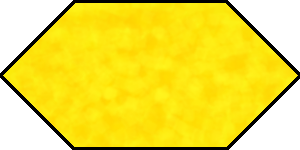
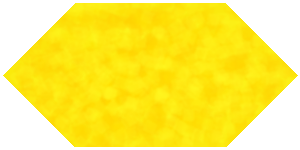
Colored borders for player controlled hexes

diff --git a/app/static/js/main.js b/app/static/js/main.js
@@ -345,8 +345,13 @@ var Tile = (function (_super) {
     Tile.prototype.reDrawTile = function () {
         var arraySpot = currLand.getID([this.axialRow, this.axialCol]);
         var tSprite = currLand.spriteArray[arraySpot];
+        var tBSprite = currLand.sprBorderArray[arraySpot];
         var tDevSpr = currLand.sprDevArray[arraySpot];
         tSprite.texture = sprMed[lscpArray[this.landscape].sprID];
+        if (this.ownedBy != null) {
+            tBSprite.alpha = 1;
+            tBSprite.tint = rgbToHclr(cPlayerArray[this.ownedBy].color);
+        }
         if (this.development != null) {
             tDevSpr.texture = sprMed[develArray[this.development].sprID[0]];
         }
@@ -361,6 +366,7 @@ var playerIncrement = 0; // Global incrementing variable used to set playerID
 var Player = (function () {
     function Player() {
         this.playerOrder = 0;
+        this.color = [255, 255, 255];
         this.food = 2;
         this.material = 2;
         this.treasure = 0;
@@ -377,6 +383,12 @@ var Player = (function () {
         this.actionHistory = [];
         this.playerID = playerIncrement;
         playerIncrement++;
+        if (this.playerID === 0) {
+            this.color = [255, 0, 0];
+        }
+        else if (this.playerID === 1) {
+            this.color = [0, 0, 255];
+        }
     }
     Player.prototype.getResource = function (resource) {
         if (resource === eCOST.Food) {
@@ -770,11 +782,13 @@ var Land = (function () {
     Land.prototype.displayLand = function () {
         var lTiles = this.tileArray;
         var landSprites = [];
+        var landBSprites = [];
         var landDevSprs = [];
         for (var currX = (-1 * glbBoundary); currX < glbBoundary; currX++) {
             for (var currY = (-1 * glbBoundary); currY < glbBoundary; currY++) {
                 var arraySpot = this.getID([currX, currY]);
                 if (arraySpot != null) {
+                    // Add landscape sprite
                     var tTile = lTiles[arraySpot];
                     var tSprite = new Sprite(sprMed[lscpArray[tTile.landscape].sprID]);
                     tSprite.scale.set(tTile.scale, tTile.scale);
@@ -782,6 +796,13 @@ var Land = (function () {
                     tSprite.position.set(sPos[0], sPos[1]);
                     stage.addChild(tSprite);
                     landSprites[arraySpot] = tSprite;
+                    // Add border sprite
+                    var tBSprite = new Sprite(sprMed["whiteborder.png"]);
+                    tBSprite.scale.set(tTile.scale, tTile.scale);
+                    tBSprite.position.set(sPos[0], sPos[1]);
+                    stage.addChild(tBSprite);
+                    landBSprites[arraySpot] = tBSprite;
+                    landBSprites[arraySpot].alpha = 0;
                 }
             }
         }
@@ -810,6 +831,7 @@ var Land = (function () {
             }
         }
         this.spriteArray = landSprites;
+        this.sprBorderArray = landBSprites;
         this.sprDevArray = landDevSprs;
         renderer.render(stage);
     };
@@ -1148,7 +1170,7 @@ develArray[eDEVEL.Demolition].requirement = [];
 develArray[eDEVEL.Demolition].requirement[eREQ.Destroy] = 1;
 develArray[eDEVEL.Demolition].result = [];
 develArray[eDEVEL.Demolition].result[eRES.Material] = 1;
-develArray[eDEVEL.ShepherdVillage] = new Development(eDEVEL.ShepherdVillage, ["shepherdvillage.png"], "Shepherd Village", eDCLR.Red, [eLSCP.Grassy], ("Requires: 1 Food,; Result: +2 Active,  +1 Material"));
+develArray[eDEVEL.ShepherdVillage] = new Development(eDEVEL.ShepherdVillage, ["shepherdvillage.png"], "Shepherd Village", eDCLR.Red, [eLSCP.Grassy], ("Requires: 1 Food,; Result: +2 Active, +1 Material"));
 develArray[eDEVEL.ShepherdVillage].cost = [];
 develArray[eDEVEL.ShepherdVillage].cost[eCOST.Food] = 1;
 develArray[eDEVEL.ShepherdVillage].cost[eCOST.Material] = 2;

diff --git a/app/static/js/land.ts b/app/static/js/land.ts
@@ -8,6 +8,7 @@ class Land {
 	lClimate: number;
 	tileArray: Tile[];
 	spriteArray: Sprite[];
+	sprBorderArray: Sprite[];
 	sprDevArray: Sprite[];
 	devSelection: DevSet;
 
@@ -298,11 +299,13 @@ class Land {
 	displayLand() {
 		let lTiles = this.tileArray;
 		let landSprites = [];
+		let landBSprites = [];
 		let landDevSprs = [];
 		for (var currX=(-1 * glbBoundary); currX < glbBoundary; currX++) {
 			for (var currY=(-1 * glbBoundary); currY < glbBoundary; currY++) {
 				let arraySpot = this.getID([currX, currY]);
 				if (arraySpot != null) {
+					// Add landscape sprite
 					let tTile = lTiles[arraySpot];
 					let tSprite = new Sprite(sprMed[lscpArray[tTile.landscape].sprID]);
 					tSprite.scale.set(tTile.scale, tTile.scale);
@@ -312,6 +315,16 @@ class Land {
 
 					stage.addChild(tSprite);
 					landSprites[arraySpot] = tSprite;
+
+					// Add border sprite
+					let tBSprite = new Sprite(sprMed["whiteborder.png"]);
+					tBSprite.scale.set(tTile.scale, tTile.scale);
+
+					tBSprite.position.set(sPos[0], sPos[1]);
+
+					stage.addChild(tBSprite);
+					landBSprites[arraySpot] = tBSprite;
+					landBSprites[arraySpot].alpha = 0;
 				}
 			}
 		}
@@ -343,6 +356,7 @@ class Land {
 			}
 		}
 		this.spriteArray = landSprites;
+		this.sprBorderArray = landBSprites;
 		this.sprDevArray = landDevSprs;
 		renderer.render(stage);
 	}

diff --git a/app/static/js/tile.ts b/app/static/js/tile.ts
@@ -80,8 +80,13 @@ class Tile extends Hex {
 	reDrawTile() {
 		let arraySpot = currLand.getID([this.axialRow, this.axialCol]);
 		let tSprite = currLand.spriteArray[arraySpot];
+		let tBSprite = currLand.sprBorderArray[arraySpot];
 		let tDevSpr = currLand.sprDevArray[arraySpot];
 		tSprite.texture = sprMed[lscpArray[this.landscape].sprID];
+		if (this.ownedBy != null) {
+			tBSprite.alpha = 1;
+			tBSprite.tint = rgbToHclr(cPlayerArray[this.ownedBy].color);
+		}
 		if (this.development != null) {
 			tDevSpr.texture = sprMed[develArray[this.development].sprID[0]];
 		}

diff --git a/app/static/js/player.ts b/app/static/js/player.ts
@@ -6,6 +6,7 @@ class Player {
 	//  toss analogue and is used in practice for the rest of the game
 	playerID: number;
 	playerOrder: number = 0;
+	color: number[] = [255, 255, 255];
 	food: number = 2;
 	material: number = 2;
 	treasure: number = 0;
@@ -24,6 +25,13 @@ class Player {
 	constructor() {
 		this.playerID = playerIncrement;
 		playerIncrement ++;
+
+		if (this.playerID === 0) {
+			this.color = [255, 0, 0];
+		}
+		else if (this.playerID === 1) {
+			this.color = [0, 0, 255];
+		}
 	}
 
 	getResource(resource) {
